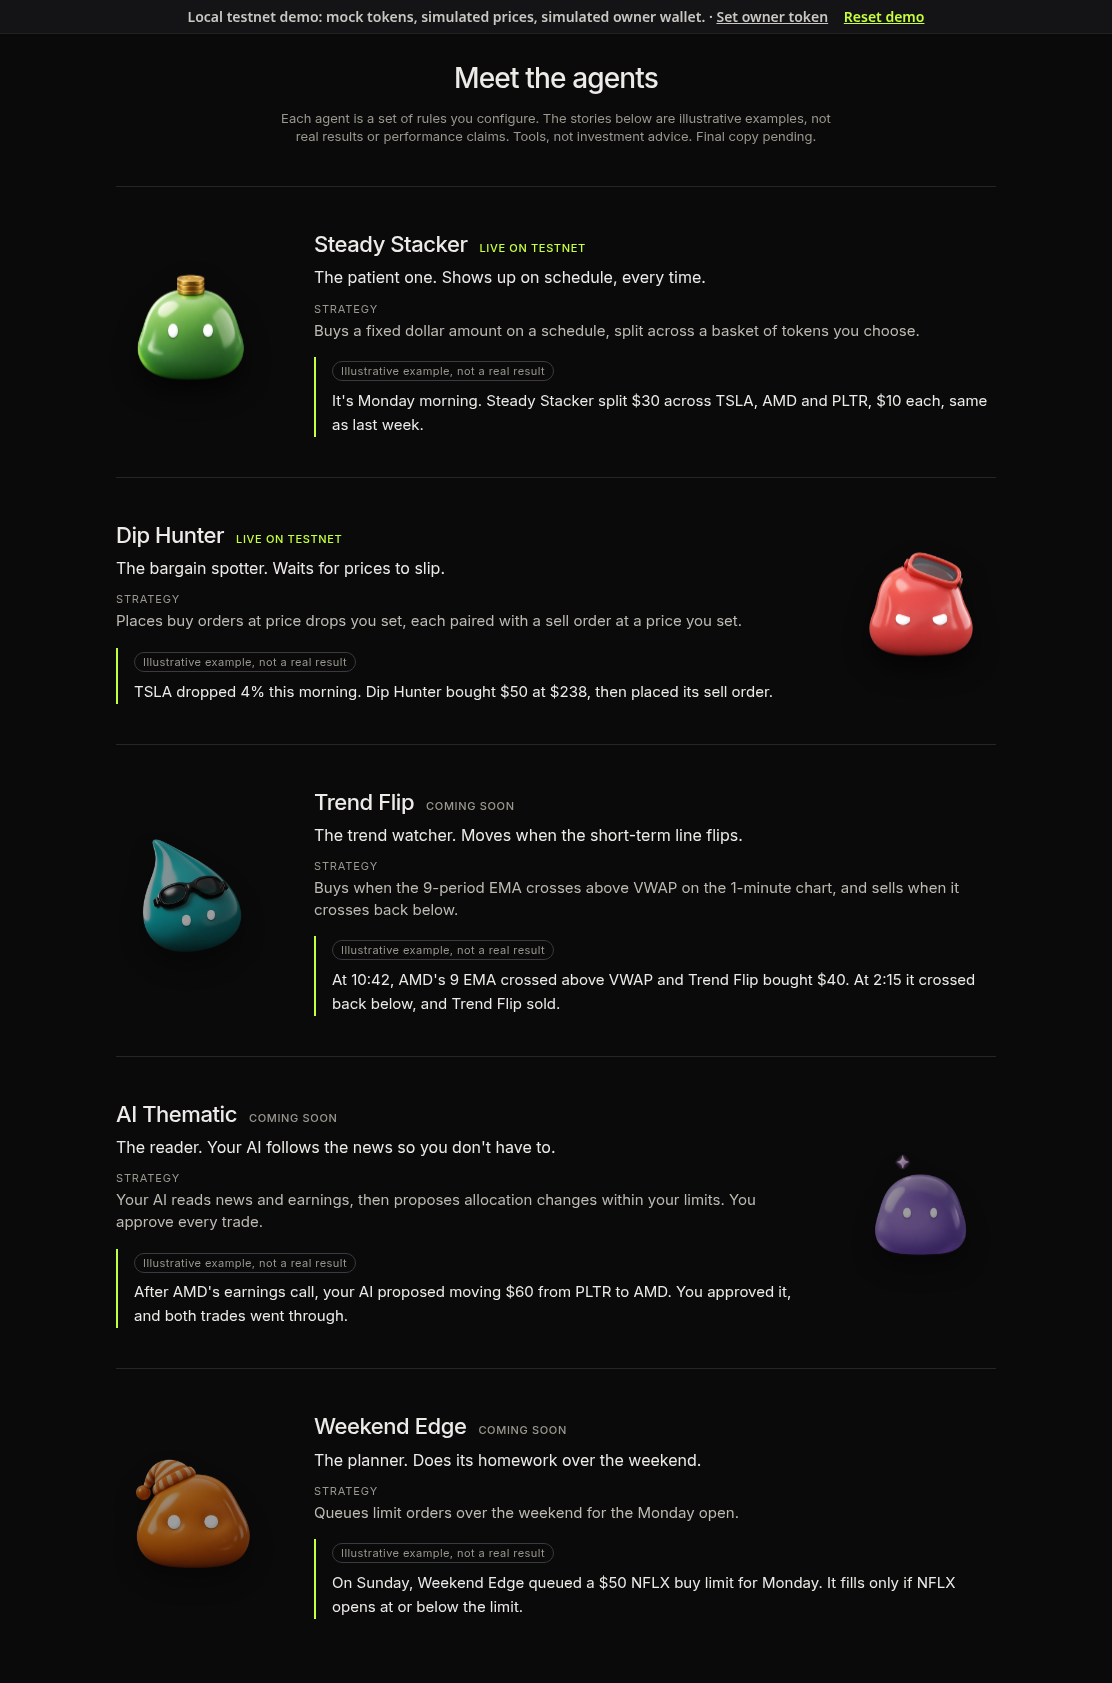
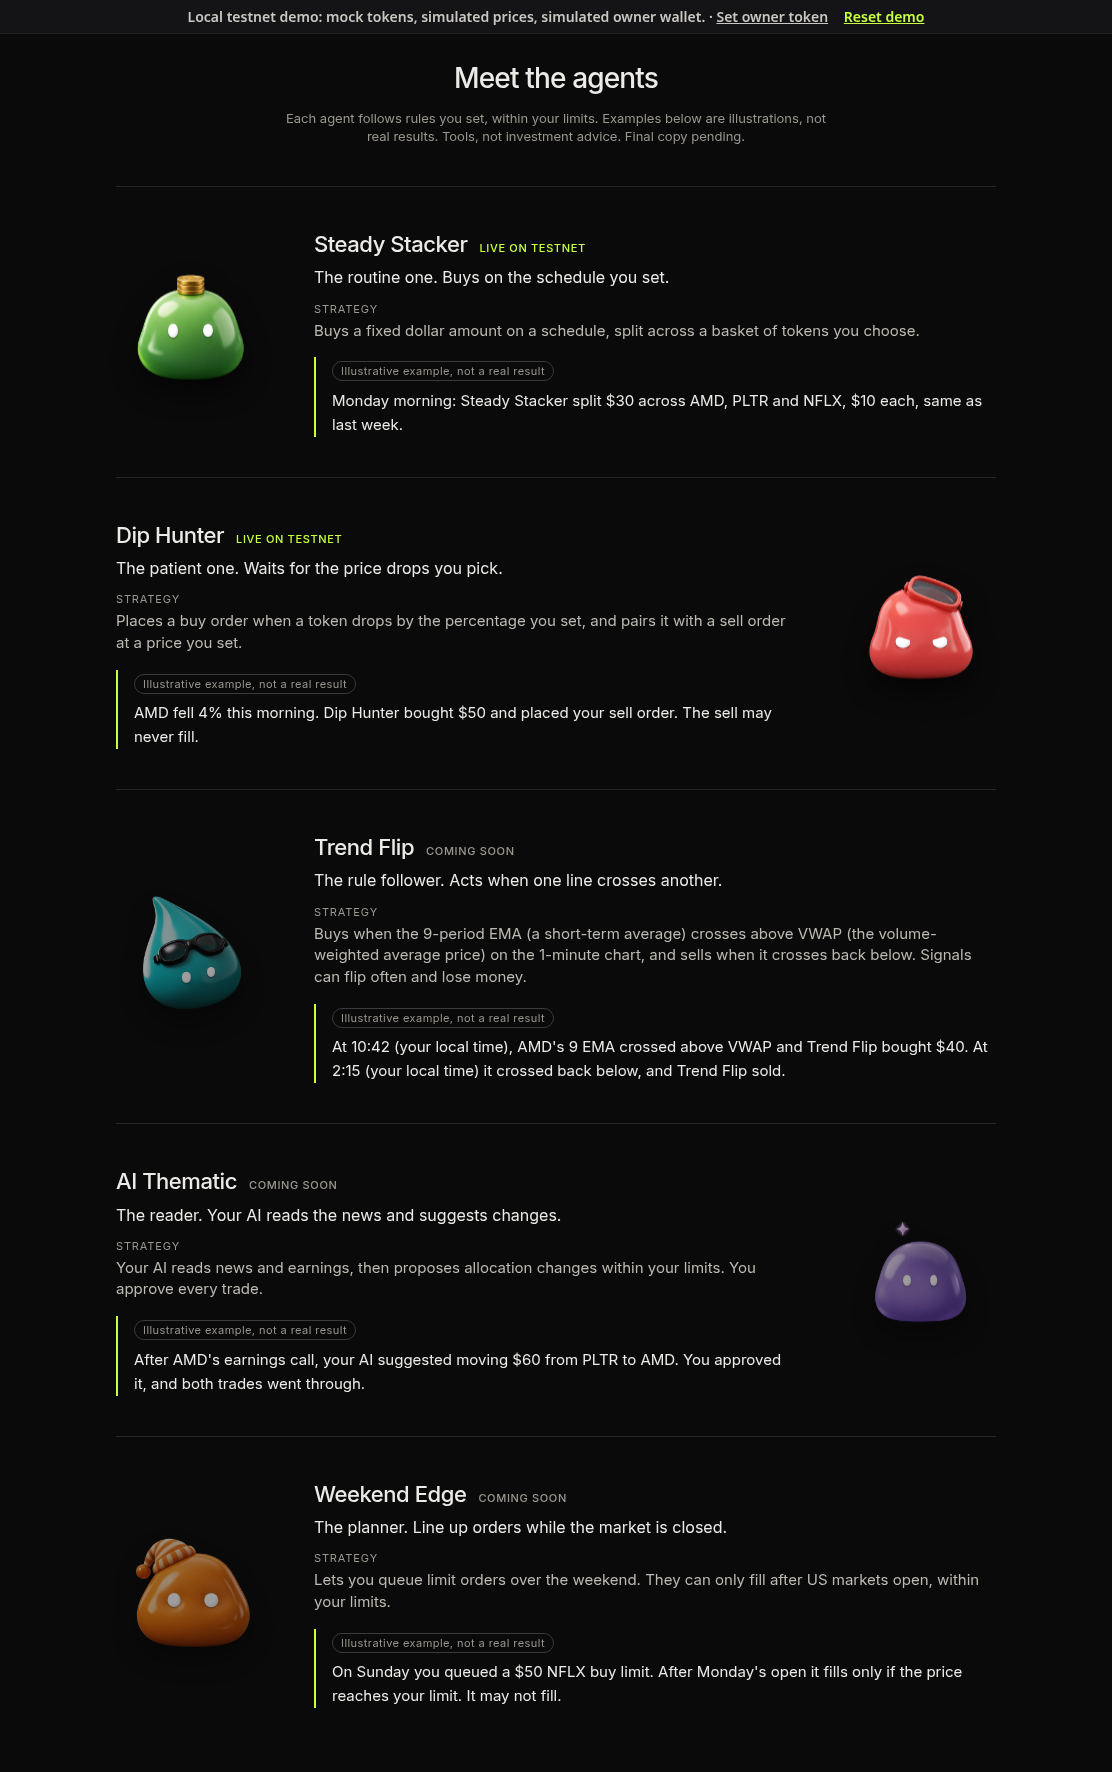
landing: Marcus's 'Meet the agents' copy edits, AMD/PLTR/NFLX-only examples, WE_NAME constant

diff --git a/prototype/landing.js b/prototype/landing.js
@@ -2,19 +2,20 @@
 (function(){
 const DIS='<p class="lp-disc">Stock tokens are not available to US persons or residents of restricted regions and are not shares. Final copy pending legal review.</p>';
 const BADGE='<span class="lp-badge">Testnet, not real stocks</span>';
+const WE_NAME="Weekend Edge"; // rename here only (pending Julius)
 const BOTS=[
- ["steady-stacker","Steady Stacker",1,"The patient one. Shows up on schedule, every time.","Buys a fixed dollar amount on a schedule, split across a basket of tokens you choose.","It's Monday morning. Steady Stacker split $30 across TSLA, AMD and PLTR, $10 each, same as last week."],
- ["dip-hunter","Dip Hunter",1,"The bargain spotter. Waits for prices to slip.","Places buy orders at price drops you set, each paired with a sell order at a price you set.","TSLA dropped 4% this morning. Dip Hunter bought $50 at $238, then placed its sell order."],
- ["trend-flip","Trend Flip",0,"The trend watcher. Moves when the short-term line flips.","Buys when the 9-period EMA crosses above VWAP on the 1-minute chart, and sells when it crosses back below.","At 10:42, AMD's 9 EMA crossed above VWAP and Trend Flip bought $40. At 2:15 it crossed back below, and Trend Flip sold."],
- ["ai-thematic","AI Thematic",0,"The reader. Your AI follows the news so you don't have to.","Your AI reads news and earnings, then proposes allocation changes within your limits. You approve every trade.","After AMD's earnings call, your AI proposed moving $60 from PLTR to AMD. You approved it, and both trades went through."],
- ["weekend-edge","Weekend Edge",0,"The planner. Does its homework over the weekend.","Queues limit orders over the weekend for the Monday open.","On Sunday, Weekend Edge queued a $50 NFLX buy limit for Monday. It fills only if NFLX opens at or below the limit."]];
+ ["steady-stacker","Steady Stacker",1,"The routine one. Buys on the schedule you set.","Buys a fixed dollar amount on a schedule, split across a basket of tokens you choose.","Monday morning: Steady Stacker split $30 across AMD, PLTR and NFLX, $10 each, same as last week."],
+ ["dip-hunter","Dip Hunter",1,"The patient one. Waits for the price drops you pick.","Places a buy order when a token drops by the percentage you set, and pairs it with a sell order at a price you set.","AMD fell 4% this morning. Dip Hunter bought $50 and placed your sell order. The sell may never fill."],
+ ["trend-flip","Trend Flip",0,"The rule follower. Acts when one line crosses another.","Buys when the 9-period EMA (a short-term average) crosses above VWAP (the volume-weighted average price) on the 1-minute chart, and sells when it crosses back below. Signals can flip often and lose money.","At 10:42 (your local time), AMD's 9 EMA crossed above VWAP and Trend Flip bought $40. At 2:15 (your local time) it crossed back below, and Trend Flip sold."],
+ ["ai-thematic","AI Thematic",0,"The reader. Your AI reads the news and suggests changes.","Your AI reads news and earnings, then proposes allocation changes within your limits. You approve every trade.","After AMD's earnings call, your AI suggested moving $60 from PLTR to AMD. You approved it, and both trades went through."],
+ ["weekend-edge",WE_NAME,0,"The planner. Line up orders while the market is closed.","Lets you queue limit orders over the weekend. They can only fill after US markets open, within your limits.","On Sunday you queued a $50 NFLX buy limit. After Monday's open it fills only if the price reaches your limit. It may not fill."]];
 const FAQ=[["What are stock tokens?","Tokens on Robinhood Chain that track the price of a stock, traded here against USDG. They are not shares. In this demo they are testnet tokens from the Robinhood Chain faucet, with mock prices and no value."],["Who is eligible?","Not US persons, and not residents of the US, Canada, the UK, Switzerland, the UAE, Russia or sanctioned countries. We check your country, you sign an attestation with your wallet, and your smart wallet must be on our onchain eligibility list before it can trade. An identity-check provider is still being chosen."],["Do you hold my keys?","You own your wallet. We never hold its owner key. Your agent uses a limited key you can revoke anytime."],["What fees apply?","0.30% per trade, taken from the input token. Quotes are shown net of the fee."],["How do I stop my agent?","Revoke the agent key from the dashboard in one click. Keys also expire after 7 days."],["Are strategies advice?","No. They are templates: you choose the parameters and StockClaw executes them within your limits. Tools, not investment advice. Final copy pending."],["Is this real money?","No. This is a testnet demo; tokens and prices are mocks."]];
 const bot=(id,n)=>window.SCEyes?SCEyes.html(id,n,144):`<img src="avatars/final-${id}.png" width="144" height="144" alt="${n} mascot">`;
 function Landing(){return `<div class="lp">
 <header class="lp-nav"><a class="lp-logo" href="#/"><img src="logo-lockup.svg" width="110" height="28" alt="StockClaw home"></a>
 <nav aria-label="Main"><a href="#lp-how">How it works</a><a href="#lp-safety">Safety</a><a href="#lp-faq">FAQ</a><a class="lp-pill" href="#/onboarding/eligibility">Try the demo</a></nav></header>
 <section class="lp-hero" aria-labelledby="lp-h1">
-${(()=>{const F=[["ai-thematic","AI Thematic",84],["dip-hunter","Dip Hunter",104],["steady-stacker","Steady Stacker",128],["trend-flip","Trend Flip",104],["weekend-edge","Weekend Edge",84]];return `<div class="lp-fam" role="img" aria-label="The five StockClaw agents: ${F.map(f=>f[1]).join(", ")}">${F.map(([id,n,z],i)=>`<div class="lp-fm lp-fm${i}" aria-hidden="true">${window.SCEyes?SCEyes.html(id,"",z):`<img src="avatars/final-${id}-transparent.png" width="${z}" height="${z}" alt="">`}</div>`).join("")}</div>`})()}
+${(()=>{const F=[["ai-thematic","AI Thematic",84],["dip-hunter","Dip Hunter",104],["steady-stacker","Steady Stacker",128],["trend-flip","Trend Flip",104],["weekend-edge",WE_NAME,84]];return `<div class="lp-fam" role="img" aria-label="The five StockClaw agents: ${F.map(f=>f[1]).join(", ")}">${F.map(([id,n,z],i)=>`<div class="lp-fm lp-fm${i}" aria-hidden="true">${window.SCEyes?SCEyes.html(id,"",z):`<img src="avatars/final-${id}-transparent.png" width="${z}" height="${z}" alt="">`}</div>`).join("")}</div>`})()}
 <h1 id="lp-h1">Your agent trades<br>tokenized stocks.<br><em>You set the limits.</em></h1>
 <p class="lp-sub">Pick an AI agent, connect your own AI, and let it trade tokenized stocks on Robinhood Chain within limits you set.</p>
 <p class="lp-chips" aria-label="Tradeable on testnet">${["TSLA","AMZN","PLTR","NFLX","AMD"].map(t=>`<span class="lp-chip">${t}</span>`).join("")}${BADGE}</p>
@@ -22,7 +23,7 @@ ${(()=>{const F=[["ai-thematic","AI Thematic",84],["dip-hunter","Dip Hunter",104
 <div class="lp-cta"><a class="lp-btn" href="#/onboarding/eligibility">Try the testnet demo <span aria-hidden="true">→</span></a><a class="lp-ghost" href="#lp-wait">Join the waitlist</a></div>
 </section>
 <section class="lp-line" aria-labelledby="lp-bots"><h2 id="lp-bots" class="lp-meet">Meet the agents</h2>
-<p class="lp-meet-note">Each agent is a set of rules you configure. The stories below are illustrative examples, not real results or performance claims. Tools, not investment advice. Final copy pending.</p>
+<p class="lp-meet-note">Each agent follows rules you set, within your limits. Examples below are illustrations, not real results. Tools, not investment advice. Final copy pending.</p>
 <ol class="lp-intro">${BOTS.map(([id,n,live,intro,how,story],i)=>`<li class="${live?"":"soon"} ${i%2?"rev":""}">${bot(id,n)}<div class="lp-it"><h3>${n} <span class="lp-tag ${live?"live":""}">${live?"Live on testnet":"Coming soon"}</span></h3><p class="lp-intro-l">${intro}</p><p><span class="lp-lbl">Strategy</span>${how}</p><figure class="lp-story"><span class="lp-ill">Illustrative example, not a real result</span><blockquote>${story}</blockquote></figure></div></li>`).join("")}</ol></section>
 <section class="lp-sec" id="lp-how" aria-labelledby="lp-how-h"><p class="lp-k">01</p><h2 id="lp-how-h">How it works</h2>
 <ol class="lp-steps"><li><b>Check eligibility.</b> Answer a few questions, then sign an attestation with your wallet.</li><li><b>Set up your wallet.</b> A smart wallet owned by your own wallet.</li><li><b>Create an agent key.</b> Limited to $100 per trade, $500 per day, allowlisted tickers only.</li><li><b>Fund it.</b> Get testnet mUSDG from the in-app faucet.</li><li><b>Connect your client.</b> Paste the connector URL into Claude, ChatGPT, Grok or Cursor, then ask your agent to trade.</li></ol></section>

diff --git a/prototype/index.html b/prototype/index.html
@@ -5,4 +5,4 @@
 <main id="main" tabindex="-1"></main>
 <div id="live" class="sr" aria-live="polite"></div>
 <div id="modal" hidden></div>
-<script src="api.js?v=16"></script><script src="app.js?v=19"></script><script src="eyes.js?v=1"></script><script src="landing.js?v=10"></script><script src="dashboard.js?v=2"></script></body></html>
+<script src="api.js?v=16"></script><script src="app.js?v=19"></script><script src="eyes.js?v=1"></script><script src="landing.js?v=12"></script><script src="dashboard.js?v=2"></script></body></html>
